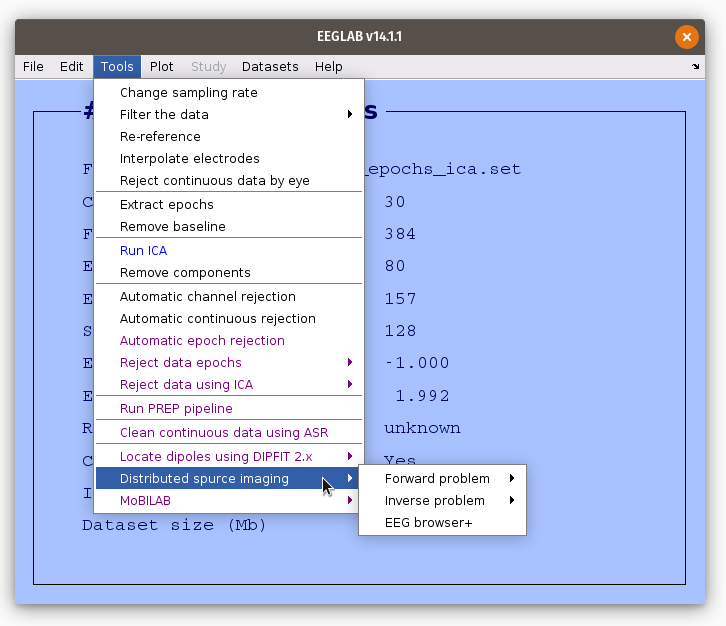
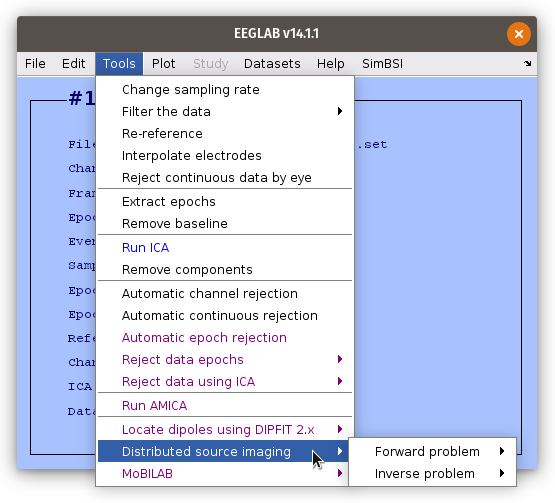
Update

diff --git a/Connectivity/conditionalTransferEntropy.m b/Connectivity/conditionalTransferEntropy.m
@@ -11,20 +11,22 @@ function [T, theta] = conditionalTransferEntropy(X, theta, normalize, k)
 %
 %% Examples:
 %%  x(k-10) -> y (k)
+%   n = 1000; 
 %   lag = 10;
-%   x=randn(1000,1);
-%   y=circshift(x,lag)+0.1*randn(size(x));
-%   z = 0.5*x+0.5*randn(size(x));
+%   x=randn(n,1);
+%   y=circshift(x,lag)+0.1*randn(n,1);
+%   z = 0.5*x+0.5*randn(n,1);
 %   T = conditionalTransferEntropy([x,y,z]);
 %   r = corr([x,y,z]);
 %   subplot(121);imagesc(T);colorbar;
 %   subplot(122);imagesc(r);colorbar;
 %
 %%  z(k-10) -> y(k), z(k-10) -> x(k)
+%   n = 1000;
 %   lag = 10;
-%   z=randn(1000,1);
-%   y=0.6*circshift(z,lag)+0.1*randn(size(x));
-%   x=0.4*circshift(z,lag)+0.1*randn(size(x));
+%   z=randn(n,1);
+%   y=0.6*circshift(z,lag)+0.1*randn(n,1);
+%   x=0.4*circshift(z,lag)+0.1*randn(n,1);
 %   T = conditionalTransferEntropy([x,y,z]);
 %   r = corr([x,y,z]);
 %   subplot(121);imagesc(T);colorbar;
@@ -32,10 +34,11 @@ function [T, theta] = conditionalTransferEntropy(X, theta, normalize, k)
 %
 
 %%  z(k-10) -> y(k)^2 <-x(k-5)^3
+%   n = 1000;
 %   lag = 10;
-%   z=randn(1000,1);
-%   x=randn(1000,1);
-%   y=0.6*circshift(z,lag).^2+0.6*circshift(x,5).^2+0.1*randn(size(x));
+%   z=randn(n,1);
+%   x=randn(n,1);
+%   y=0.6*circshift(z,lag).^2+0.6*circshift(x,5).^2+0.1*randn(n,1);
 %   [T, theta] = conditionalTransferEntropy([x,y,z]);
 %   r = corr([x,y,z]);
 %   subplot(121);imagesc(T);colorbar;

diff --git a/eegplugin_dsi.m b/eegplugin_dsi.m
@@ -15,8 +15,9 @@ addpath(genpath(fullfile(p,'headModel','dependency')));
 addpath(fullfile(p,'PEB'));
 addpath(fullfile(p,'PEB','invChol'));
 addpath(fullfile(p,'PEB','resources'));
+addpath(fullfile(p,'Connectivity'));
 
-h = uimenu( findobj(gcf, 'tag', 'tools'), 'label', 'Distributed spurce imaging');
+h = uimenu( findobj(gcf, 'tag', 'tools'), 'label', 'Distributed source imaging');
 hFp = uimenu( h, 'label','Forward problem');
 hIp = uimenu( h, 'label','Inverse problem');
 
